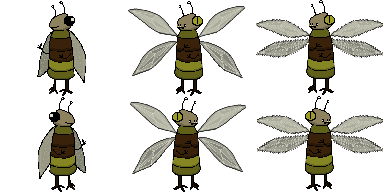
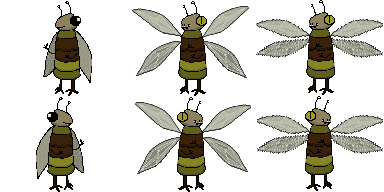
Animated moth and made it all good

Changed region(s): [[0.3125, 0.0, 0.6562, 1.0], [0.0938, 0.0, 0.25, 1.0]]

diff --git a/src/engine/game/monsters.c b/src/engine/game/monsters.c
@@ -44,8 +44,8 @@ extern void MothAI(Monster * moth, Player * Isaac)
     if(timechange>300 || timechange<-300)
         timechange=0;
 
-    double Xdistance= Isaac->movement->pos->x  - 64 - moth->movement->pos->x;
-    double Ydistance= Isaac->movement->pos->y + 32 - moth->movement->pos->y;
+    double Xdistance= Isaac->movement->pos->x  - 32 - moth->movement->pos->x;
+    double Ydistance= Isaac->movement->pos->y - moth->movement->pos->y;
 
     //oh shit here we go some fuckin trig
     double angle;
@@ -55,28 +55,65 @@ extern void MothAI(Monster * moth, Player * Isaac)
     }
     else angle=0;
 
-    int xSign=sign(Xdistance);
-
-    moth->movement->velocity->x+=  fabs(cos(angle)) * sign(Xdistance) * timechange * 0.06;
-    moth->movement->velocity->y+=  fabs(sin(angle)) * sign(Ydistance) * timechange * 0.06;
-
-    if(moth->movement->velocity->x!=0)
+    float dist=fabs(Xdistance)/fabs(cos(angle)) ;
+    if(dist < 300)
     {
-        angle = atan(moth->movement->velocity->y / moth->movement->velocity->x);
-    }
-    else angle=0;
+        moth->movement->velocity->x += fabs(cos(angle)) * sign(Xdistance) * timechange * 0.06;
+        moth->movement->velocity->y += fabs(sin(angle)) * sign(Ydistance) * timechange * 0.06;
 
-    ProcessVelocity(&(moth->movement->velocity->x), timechange, (4 * fabs(cos(angle))) ,0); //Dampens and caps velocity
-    ProcessVelocity(&(moth->movement->velocity->y), timechange, (4 * fabs(sin(angle))), 0);
+        if (moth->movement->velocity->x != 0) {
+            angle = atan(moth->movement->velocity->y / moth->movement->velocity->x);
+        }
+
+        ProcessVelocity(&(moth->movement->velocity->x), timechange, (4 * fabs(cos(angle))),0); //Dampens and caps velocity
+        ProcessVelocity(&(moth->movement->velocity->y), timechange, (4 * fabs(sin(angle))), 0);
+
+        moth->movement->pos->x+=(rand()%3)-1;
+        moth->movement->pos->y+=(rand()%3)-1;
+
+    }
+    else
+    {
+        ProcessVelocity(&(moth->movement->velocity->x), timechange, (4 * fabs(cos(angle))),1); //Dampens and caps velocity
+        ProcessVelocity(&(moth->movement->velocity->y), timechange, (4 * fabs(sin(angle))), 1);
+    }
+
 
     moth->movement->pos->x+=moth->movement->velocity->x * timechange*0.06* moth->Speed; //TODO: make a PosChange function
     moth->movement->pos->y+=moth->movement->velocity->y * timechange*0.06* moth->Speed;
+
+
 
     moth->movement->Hitbox->x=moth->movement->pos->x+64;
     moth->movement->Hitbox->y=moth->movement->pos->y;
 
 
+    MothAnimate(moth->movement,Xdistance,timechange);
 
+
+
+}
+
+extern void MothAnimate(MovementValues * movement,double Xdistance,int time)
+{
+    if(Xdistance>0)
+    {
+        movement->direction=1;
+    }
+    else
+    {
+        movement->direction=0;
+    }
+    movement->SpriteBox->y=movement->direction*96;
+    if(!movement->velocity->x && !movement->velocity->y)
+    {
+        movement->SpriteBox->x=0;
+    }
+    else
+    {
+        movement->step= (movement->step+time)%200;
+        movement->SpriteBox->x= ((movement->step/100)+1)*128 ;
+    }
 }
 
 

diff --git a/src/scenes/lobby/render.c b/src/scenes/lobby/render.c
@@ -24,7 +24,9 @@ static SDL_Surface* getLobby(ImageCollector* myImageCollector, FontCollector* my
 
     bg = get_ImageCollector(myImageCollector, "lobby/bg")->surface;
     FightSprite = get_ImageCollector(myImageCollector, "lobby/scythe")->surface;
-    BadGuy = get_ImageCollector(myImageCollector, "lobby/testmonster")->surface;// remove
+
+    Hibox= get_ImageCollector(myImageCollector, "lobby/hibox")->surface;
+    BadGuy = get_ImageCollector(myImageCollector, "lobby/moth")->surface;// remove
 
     bgPos.x = 0;
     bgPos.y = 0;
@@ -62,7 +64,7 @@ static SDL_Surface* getLobby(ImageCollector* myImageCollector, FontCollector* my
     }
 
     if(data->monsters != NULL) {
-        SDL_BlitSurface(BadGuy, NULL, lobbySurface, &monsterpos);
+        SDL_BlitSurface(BadGuy, data->monsters->monster->movement->SpriteBox, lobbySurface, &monsterpos);
     }
 
 
@@ -235,5 +237,3 @@ extern void renderScene_Scene_lobby(SDL_Surface* window, Engine* engine, Data* d
     SDL_FreeSurface(lobbySurface);
 }
 
-    Hibox= get_ImageCollector(myImageCollector, "lobby/hibox")->surface;
-    BadGuy = get_ImageCollector(myImageCollector, "lobby/moth")->surface;// remove

diff --git a/src/scenes/lobby/lobby.c b/src/scenes/lobby/lobby.c
@@ -40,6 +40,8 @@ extern void init_Scene_lobby(Engine* engine, Data* data, bool loadOrUnload) {
         data->monsters->monster->movement->pos=malloc(sizeof(coordinates_entity));
         data->monsters->monster->movement->velocity=malloc(sizeof(coordinates_entity));
 
+
+        data->monsters->monster->movement->step=0;
         data->monsters->monster->Speed=1;
         data->monsters->monster->type=0;
         data->monsters->monster->movement->pos->x=0;

diff --git a/src/scenes/lobby/event.c b/src/scenes/lobby/event.c
@@ -31,7 +31,7 @@ extern void eventProcess_Scene_lobby(SDL_Event event, Engine* engine, Data* data
 
                     CASE(SDLK_UNDERSCORE)
                         data->lobby->actionProcess = 10;
-                    BREAK;
+                    BREAK
 
                     CASE(engine->keys->LEFT_ATTACK)
                         if (data->lobby->askCombat == -1) {

diff --git a/src/engine/game/monsters.h b/src/engine/game/monsters.h
@@ -26,7 +26,7 @@ typedef MonsterNode * MonsterLList;
 extern void ProcessMonsters(Player * Isaac,MonsterLList * monsters);
 
 extern void MothAI(Monster * moth, Player * Isaac);
-
+extern void MothAnimate(MovementValues * movement,double Xdistance,int time);
 
 extern MonsterLList KillMonsters(MonsterLList monsters);
 extern void freemonster(MonsterLList monster);

diff --git a/src/utils/math.h b/src/utils/math.h
@@ -22,5 +22,11 @@ extern double maxDouble(double x, double y);
  * @return the min value between x and y
  */
 extern int min(int x, int y);
+/**
+ * Return the sign of the double
+ * @param x the value
+ * @return +1 or -1
+ */
+extern int sign(double x);
 
 #endif //FREE_PROJECT_UTILS_MATH_H
